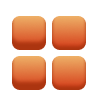
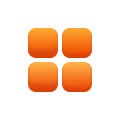
feat: 聊天区样式修改

diff --git a/src/packages/interact-tools-wap/src/main.vue b/src/packages/interact-tools-wap/src/main.vue
@@ -6,9 +6,23 @@
     ]"
   >
     <div class="icon-wrapper">
-      <!-- TODO:支付牌照问题 -->
+      <div class="good" v-if="localRoomInfo.isShowGift && isFullScreen">
+        <div class="tool">
+          <img class="good-img" src="./img/icon_good.png" @click="openGoods" />
+        </div>
+        <GiftCard
+          @showLogin="showLogin"
+          ref="gifts"
+          :isEmbed="localRoomInfo.isEmbed"
+          :joinInfoInGift="joinInfoInGift"
+          :roomId="localRoomInfo.room_id"
+          :localRoomInfo="localRoomInfo"
+        />
+      </div>
       <div class="liwu" auth="{ 'ui.hide_gifts': 0 }" v-if="localRoomInfo.isShowGift && !isInGroup">
-        <img class="tool gift-img" src="./img/icon_gift.png" @click="opneGifts" />
+        <div class="tool">
+          <img class="gift-img" src="./img/icon_gift.png" @click="openGifts" />
+        </div>
         <GiftCard
           @showLogin="showLogin"
           ref="gifts"
@@ -39,7 +53,9 @@
           target="_blank"
           :href="`${location}/lives/invite/${this.$route.params.id}?invite_id=${localRoomInfo.saasJoinId}`"
         >
-          <img class="tool share-img" src="./img/icon_share.png" />
+          <div class="tool">
+            <img class="share-img" src="./img/icon_share.png" />
+          </div>
         </a>
       </div>
       <!-- 极简模式下, 菜单入口 -->
@@ -148,7 +164,7 @@
       showLogin() {
         window.$middleEventSdk?.event?.send(boxEventOpitons(this.cuid, 'emitNeedLogin'));
       },
-      opneGifts() {
+      openGifts() {
         this.$refs.gifts.showgift();
       },
       openReward() {
@@ -163,7 +179,8 @@
       setVisibleMenuLength(len = 0) {
         console.log('当前菜单是否进入', len);
         this.visibleMenuLength = len;
-      }
+      },
+      openGoods() {}
     }
   };
 </script>
@@ -174,7 +191,7 @@
       display: flex;
       & > div {
         font-size: 43px;
-        margin-right: 24px;
+        margin-right: 20px;
         display: flex;
         align-items: center;
         &:last-child {
@@ -182,8 +199,18 @@
         }
       }
       .tool {
-        width: 48px;
-        height: 48px;
+        width: 60px;
+        height: 60px;
+        display: flex;
+        justify-content: center;
+        align-items: center;
+        background: rgba(6, 6, 6, 0.25);
+        border-radius: 50%;
+        overflow: hidden;
+        img {
+          width: 100%;
+          height: 100%;
+        }
       }
     }
     .vh-saas-iconfont,
@@ -194,10 +221,6 @@
     .share-box {
       position: relative;
       top: 2px;
-      .tool {
-        width: 50px;
-        height: 50px;
-      }
     }
     .redpacket-box {
       position: relative;

diff --git a/src/saas-wap/views/Home.vue b/src/saas-wap/views/Home.vue
@@ -360,9 +360,8 @@
         if (skinInfo?.skin_json_wap && skinInfo.skin_json_wap != 'null') {
           skin_json_wap = skinInfo.skin_json_wap;
         }
-
         // 竖屏直播
-        if (this.$domainStore.state.roomBaseServer.watchInitData.webinar_show_type == 0) {
+        if (this.isFullScreen) {
           console.log('------竖屏直播------');
           setPage('fullscreen');
           skins.setTheme(skins.themes[`theme_fullScreen_default`]);
@@ -400,7 +399,11 @@
         } else {
           if (style == 'main' && (theme == 'black' || theme == 'white')) {
             if (theme == 'black') {
-              document.body.style.background = `#262626`; // 黑色
+              if (this.isFullScreen) {
+                document.body.style.background = `#000`; // 黑色
+              } else {
+                document.body.style.background = `#262626`; // 黑色
+              }
             }
             if (theme == 'white') {
               app.style.background = `rgba(0, 0, 0, 0.06)`;

diff --git a/src/app-shared/skins/wap/theme-fullScreen-default.js b/src/app-shared/skins/wap/theme-fullScreen-default.js
@@ -26,8 +26,8 @@ export default {
   '--theme-chat-msg-reply-name-font': 'rgba(0, 0, 0, 0.45)',
   '--theme-chat-msg-reply-after': 'rgba(0, 0, 0, 0.25)',
   '--theme-chat-msg-timeline': 'rgba(0, 0, 0, 0.85)',
-  '--theme-chat-input-bg': 'rgba(0, 0, 0, 0.1)',
-  '--theme-chat-input-placeholder-font': 'rgba(0, 0, 0, 0.45)',
+  '--theme-chat-input-bg': 'rgba(0, 0, 0, 0.25)',
+  '--theme-chat-input-placeholder-font': 'rgba(255, 255, 255, 0.45)',
   '--theme-chat-msg-interact-bg': ' ',
   '--theme-chat-sendBox-bg': ' ',
   // 聊天输入框输入状态

diff --git a/src/packages/concise-style/wap-menu-dialog/src/main.vue b/src/packages/concise-style/wap-menu-dialog/src/main.vue
@@ -1,6 +1,8 @@
 <template>
   <div class="vmp-wap-menu-dialog">
-    <img class="menu_icon-concise" src="./images/icon_menu.png" @click="openMenusPanel" />
+    <div class="tool">
+      <img class="menu_icon-concise" src="./images/icon_menu.png" @click="openMenusPanel" />
+    </div>
     <!-- <span class="menu_icon-pointer"></span> -->
     <van-popup
       class="wap-menu-van-popup"

diff --git a/src/packages/chat-wap/src/common/components/send-box.vue b/src/packages/chat-wap/src/common/components/send-box.vue
@@ -585,7 +585,7 @@
       }
 
       .interact-wrapper {
-        margin-left: 32px;
+        margin-left: 20px;
         text-align: right;
         padding-right: 8px;
 
@@ -685,8 +685,8 @@
   }
 
   .user-avatar-wrap__avatar {
-    width: 60px;
-    height: 60px;
+    width: 56px;
+    height: 56px;
     vertical-align: middle;
     display: inline-flex;
     border-radius: 100%;
